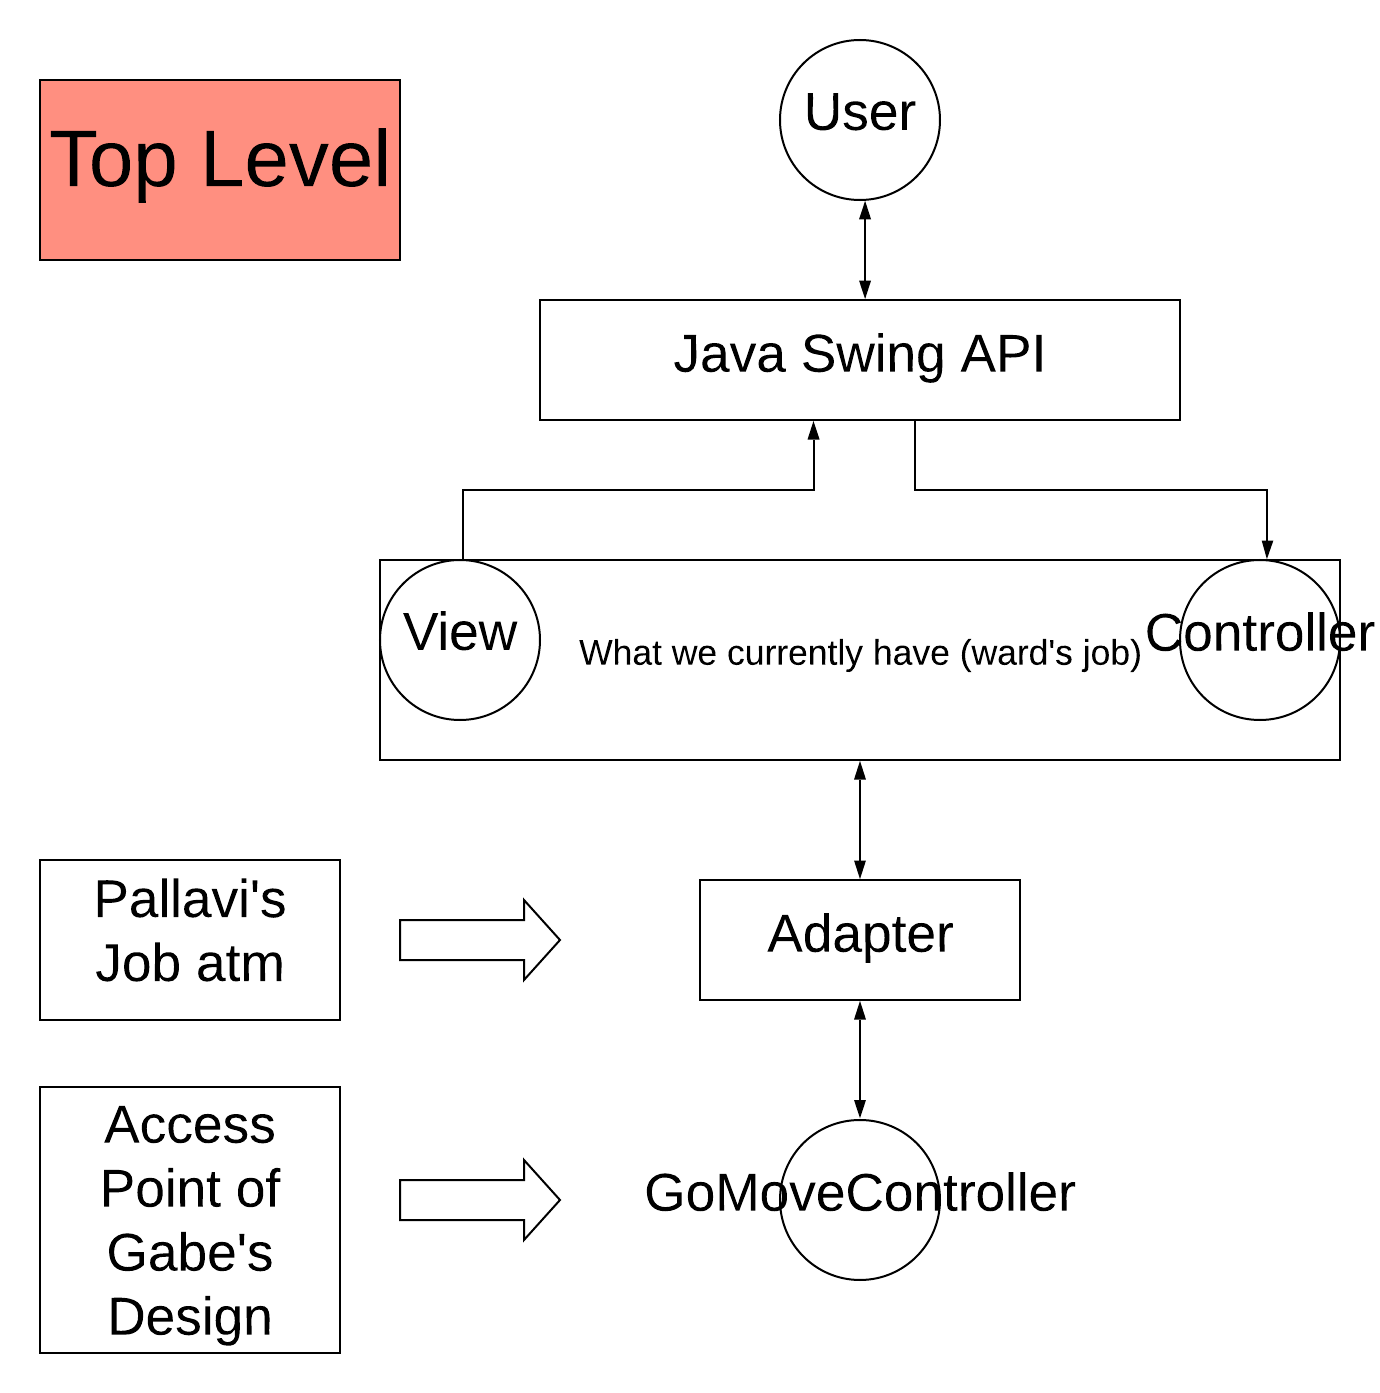
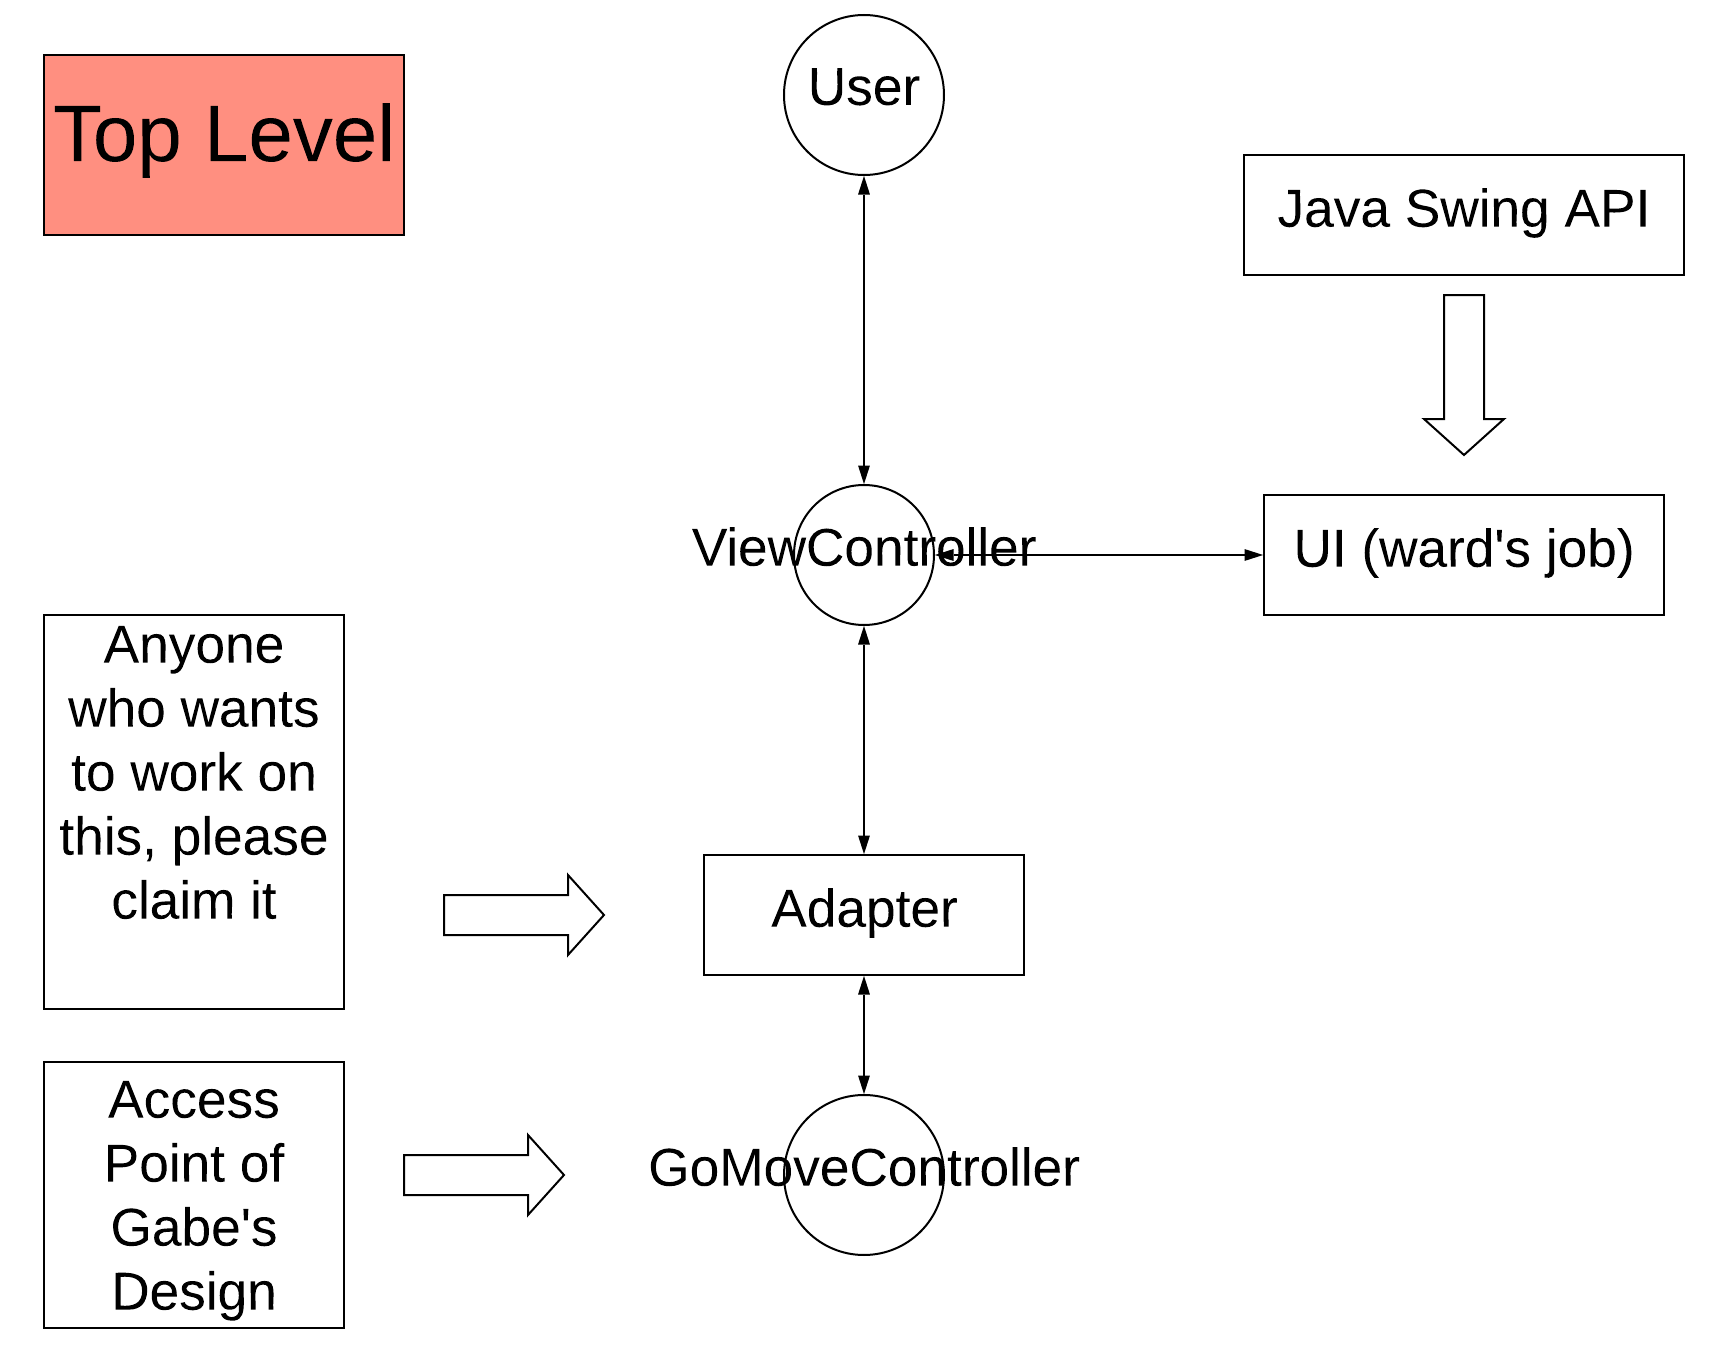
skeleton code for ViewController

diff --git a/ProjectGo/src/main/java/go/controller/impl/ViewControllerImpl.java b/ProjectGo/src/main/java/go/controller/impl/ViewControllerImpl.java
@@ -1,0 +1,25 @@
+package go.controller.impl;
+
+import go.controller.ViewController;
+
+public class ViewControllerImpl implements ViewController {
+
+	@Override
+	public void mouseEvent(int xCoord, int yCoord) {
+		// TODO Auto-generated method stub
+		
+	}
+
+	@Override
+	public void actionEvent(String actionCommand) {
+		// TODO Auto-generated method stub
+		
+	}
+
+	@Override
+	public void updateGameState(String gameState) {
+		// TODO Auto-generated method stub
+		
+	}
+
+}

diff --git a/ProjectGo/src/main/java/go/controller/ViewController.java b/ProjectGo/src/main/java/go/controller/ViewController.java
@@ -1,0 +1,16 @@
+package go.controller;
+
+public interface ViewController {
+
+	// run jar file and look at outputPanel
+	// mouse event occurs in AppView
+	void mouseEvent(int xCoord, int yCoord);
+	
+	// see CommandPanel "SetActionCommand()" line 29
+	void actionEvent(String actionCommand);
+	
+	// Give me a String or 2d array or w/e to display
+	// Translate "getGameSubject" from "GoMoveController" for me please
+	void updateGameState(String gameState);
+	
+}

diff --git a/ProjectGo/src/main/java/go/view/panel/BoardPanel.java b/ProjectGo/src/main/java/go/view/panel/BoardPanel.java
@@ -17,7 +17,7 @@ import go.view.AppView;
 @SuppressWarnings("serial")
 public class BoardPanel extends JPanel {
 
-	private int BOARD_SIZE = 9;
+	private int BOARD_SIZE = 13;
 	private int NUM_TILES = BOARD_SIZE - 1;
 	private int TILE_SIZE;
 	private int BORDER_SIZE;
